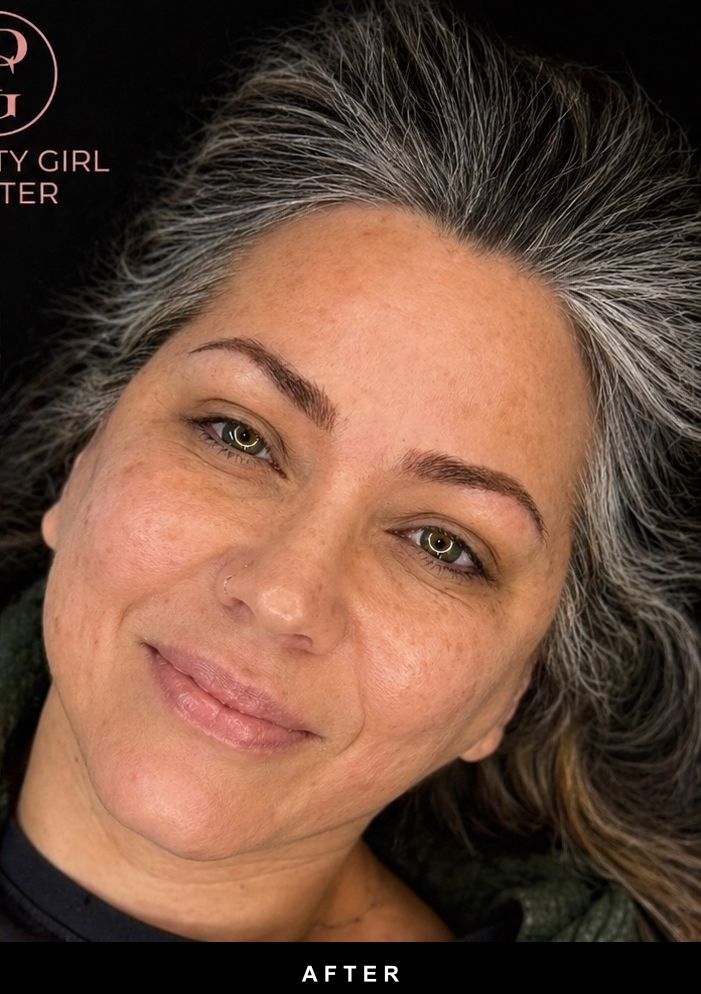
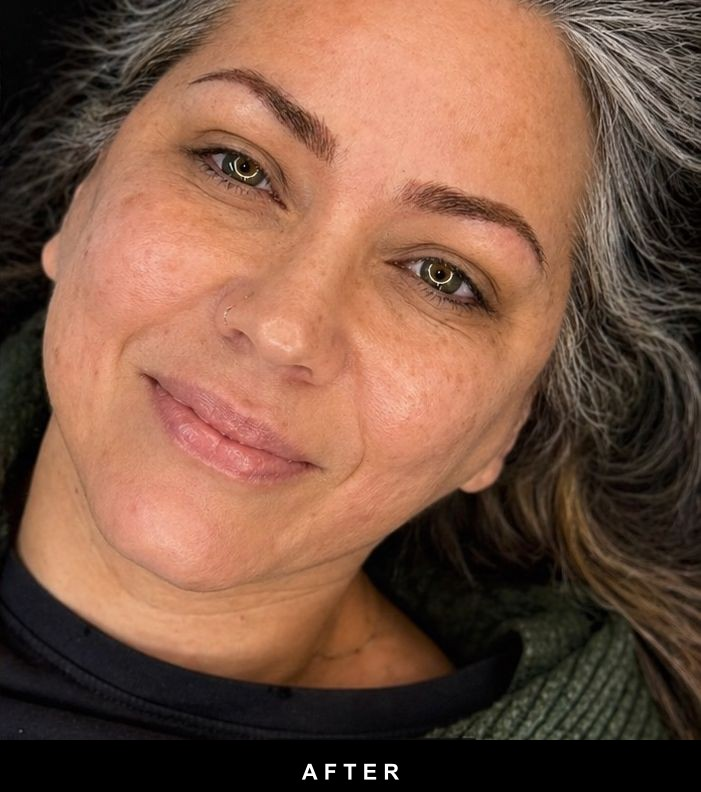
Gallery: fix cropping per-image, eliminate stretching, use pre-cropped edited images

diff --git a/src/app/gallery/page.tsx b/src/app/gallery/page.tsx
@@ -6,20 +6,21 @@ import Footer from '@/components/Footer';
 import Link from 'next/link';
 import { Camera, Sparkles, ArrowRight } from 'lucide-react';
 
-const galleryImages = [
-  '/images/gallery/0C33214B-3B91-4574-A6BA-C7DF98121702_1_102_o.jpeg',  // 1
-  '/images/gallery/18FFAF18-637B-41C5-B7DF-B32CA59E9A7F_1_105_c.jpeg',  // 2
-  '/images/gallery/27256B3F-0857-4070-AD73-939BAD8F609F_1_105_c.jpeg',  // 6
-  '/images/gallery/29F668EA-399A-4A32-B81D-620E9EA4788F_1_105_c.jpeg',  // 7
-  '/images/gallery/6E06ACA2-DFC1-4B18-8086-064A35366BFD_1_102_o.jpeg',  // 11
-  '/images/gallery/7151A3CA-9B4E-43C4-B1B6-F84ADAE6296D_1_102_o.jpeg',  // 13
-  '/images/gallery/A5BF43BF-8A9F-4C3A-9E03-C938A9E0E67F_1_102_o.jpeg',  // 15
-  '/images/gallery/AEB29E0F-C582-4264-9FF6-FE2C4CEAEA85_4_5005_c.jpeg', // 16
-  '/images/gallery/D06690BA-A746-4AFA-AFBF-8B76BE6A777F_1_102_o.jpeg',  // 17
+// Each entry is a [before, after] pair using pre-cropped images from /images/edited/
+const galleryPairs: [string, string][] = [
+  ['/images/edited/0C33214B-3B91-4574-A6BA-C7DF98121702_1_102_o_before.jpg',  '/images/edited/0C33214B-3B91-4574-A6BA-C7DF98121702_1_102_o_after.jpg'],
+  ['/images/edited/18FFAF18-637B-41C5-B7DF-B32CA59E9A7F_1_105_c_before.jpg',  '/images/edited/18FFAF18-637B-41C5-B7DF-B32CA59E9A7F_1_105_c_after.jpg'],
+  ['/images/edited/27256B3F-0857-4070-AD73-939BAD8F609F_1_105_c_before.jpg',  '/images/edited/27256B3F-0857-4070-AD73-939BAD8F609F_1_105_c_after.jpg'],
+  ['/images/edited/29F668EA-399A-4A32-B81D-620E9EA4788F_1_105_c_before.jpg',  '/images/edited/29F668EA-399A-4A32-B81D-620E9EA4788F_1_105_c_after.jpg'],
+  ['/images/edited/6E06ACA2-DFC1-4B18-8086-064A35366BFD_1_102_o_before.jpg',  '/images/edited/6E06ACA2-DFC1-4B18-8086-064A35366BFD_1_102_o_after.jpg'],
+  ['/images/edited/7151A3CA-9B4E-43C4-B1B6-F84ADAE6296D_1_102_o_before.jpg',  '/images/edited/7151A3CA-9B4E-43C4-B1B6-F84ADAE6296D_1_102_o_after.jpg'],
+  ['/images/edited/A5BF43BF-8A9F-4C3A-9E03-C938A9E0E67F_1_102_o_before.jpg',  '/images/edited/A5BF43BF-8A9F-4C3A-9E03-C938A9E0E67F_1_102_o_after.jpg'],
+  ['/images/edited/AEB29E0F-C582-4264-9FF6-FE2C4CEAEA85_4_5005_c_before.jpg', '/images/edited/AEB29E0F-C582-4264-9FF6-FE2C4CEAEA85_4_5005_c_after.jpg'],
+  ['/images/edited/D06690BA-A746-4AFA-AFBF-8B76BE6A777F_1_102_o_before.jpg',  '/images/edited/D06690BA-A746-4AFA-AFBF-8B76BE6A777F_1_102_o_after.jpg'],
 ];
 
-// Each composite image: left half = Before, right half = After
-// CSS crops each half using object-position and overflow:hidden on a 200%-wide image
+// Pre-cropped images already have the correct half + label baked in.
+// Each panel just displays its image with cover sizing — no stretching, no CSS tricks.
 
 interface PanelProps {
   src: string;
@@ -29,9 +30,6 @@ interface PanelProps {
 }
 
 function HalfPanel({ src, side, visible, delay }: PanelProps) {
-  // Use background-image CSS to crop left or right half of the composite image
-  const bgPosition = side === 'before' ? 'left center' : 'right center';
-
   return (
     <div
       style={{
@@ -43,39 +41,17 @@ function HalfPanel({ src, side, visible, delay }: PanelProps) {
         minHeight: '100%',
       }}
     >
-      {/* Cropped half via background-image: 200% wide, positioned left or right */}
+      {/* Pre-cropped image fills panel without stretching */}
       <div
         style={{
           position: 'absolute',
           inset: 0,
           backgroundImage: `url(${src})`,
-          backgroundSize: '200% 100%',
-          backgroundPosition: bgPosition,
+          backgroundSize: 'cover',
+          backgroundPosition: 'top center',
           backgroundRepeat: 'no-repeat',
         }}
       />
-
-      {/* Label */}
-      <div
-        style={{
-          position: 'absolute',
-          top: 12,
-          left: '50%',
-          transform: 'translateX(-50%)',
-          zIndex: 10,
-          background: 'rgba(173,98,105,0.88)',
-          color: 'white',
-          fontWeight: 700,
-          fontSize: 13,
-          letterSpacing: '0.12em',
-          padding: '4px 18px',
-          borderRadius: 99,
-          whiteSpace: 'nowrap',
-          backdropFilter: 'blur(4px)',
-        }}
-      >
-        {side === 'before' ? 'BEFORE' : 'AFTER'}
-      </div>
     </div>
   );
 }
@@ -89,7 +65,7 @@ export default function GalleryPage() {
     const enterTimer = setTimeout(() => setPhase('holding'), 2000);
     const exitTimer = setTimeout(() => setPhase('exiting'), 5000);
     const nextTimer = setTimeout(() => {
-      setCurrentIndex((prev) => (prev + 1) % galleryImages.length);
+      setCurrentIndex((prev) => (prev + 1) % galleryPairs.length);
       setPhase('entering');
     }, 6000);
 
@@ -152,13 +128,13 @@ export default function GalleryPage() {
                 }}
               >
                 <HalfPanel
-                  src={galleryImages[currentIndex]}
+                  src={galleryPairs[currentIndex][0]}
                   side="before"
                   visible={pairVisible}
                   delay={beforeDelay}
                 />
                 <HalfPanel
-                  src={galleryImages[currentIndex]}
+                  src={galleryPairs[currentIndex][1]}
                   side="after"
                   visible={pairVisible}
                   delay={afterDelay}
@@ -167,7 +143,7 @@ export default function GalleryPage() {
 
               {/* Dot Navigation */}
               <div className="flex justify-center gap-3 flex-wrap mt-8">
-                {galleryImages.map((_, index) => (
+                {galleryPairs.map((_: [string, string], index: number) => (
                   <button
                     key={index}
                     onClick={() => handleDotClick(index)}
